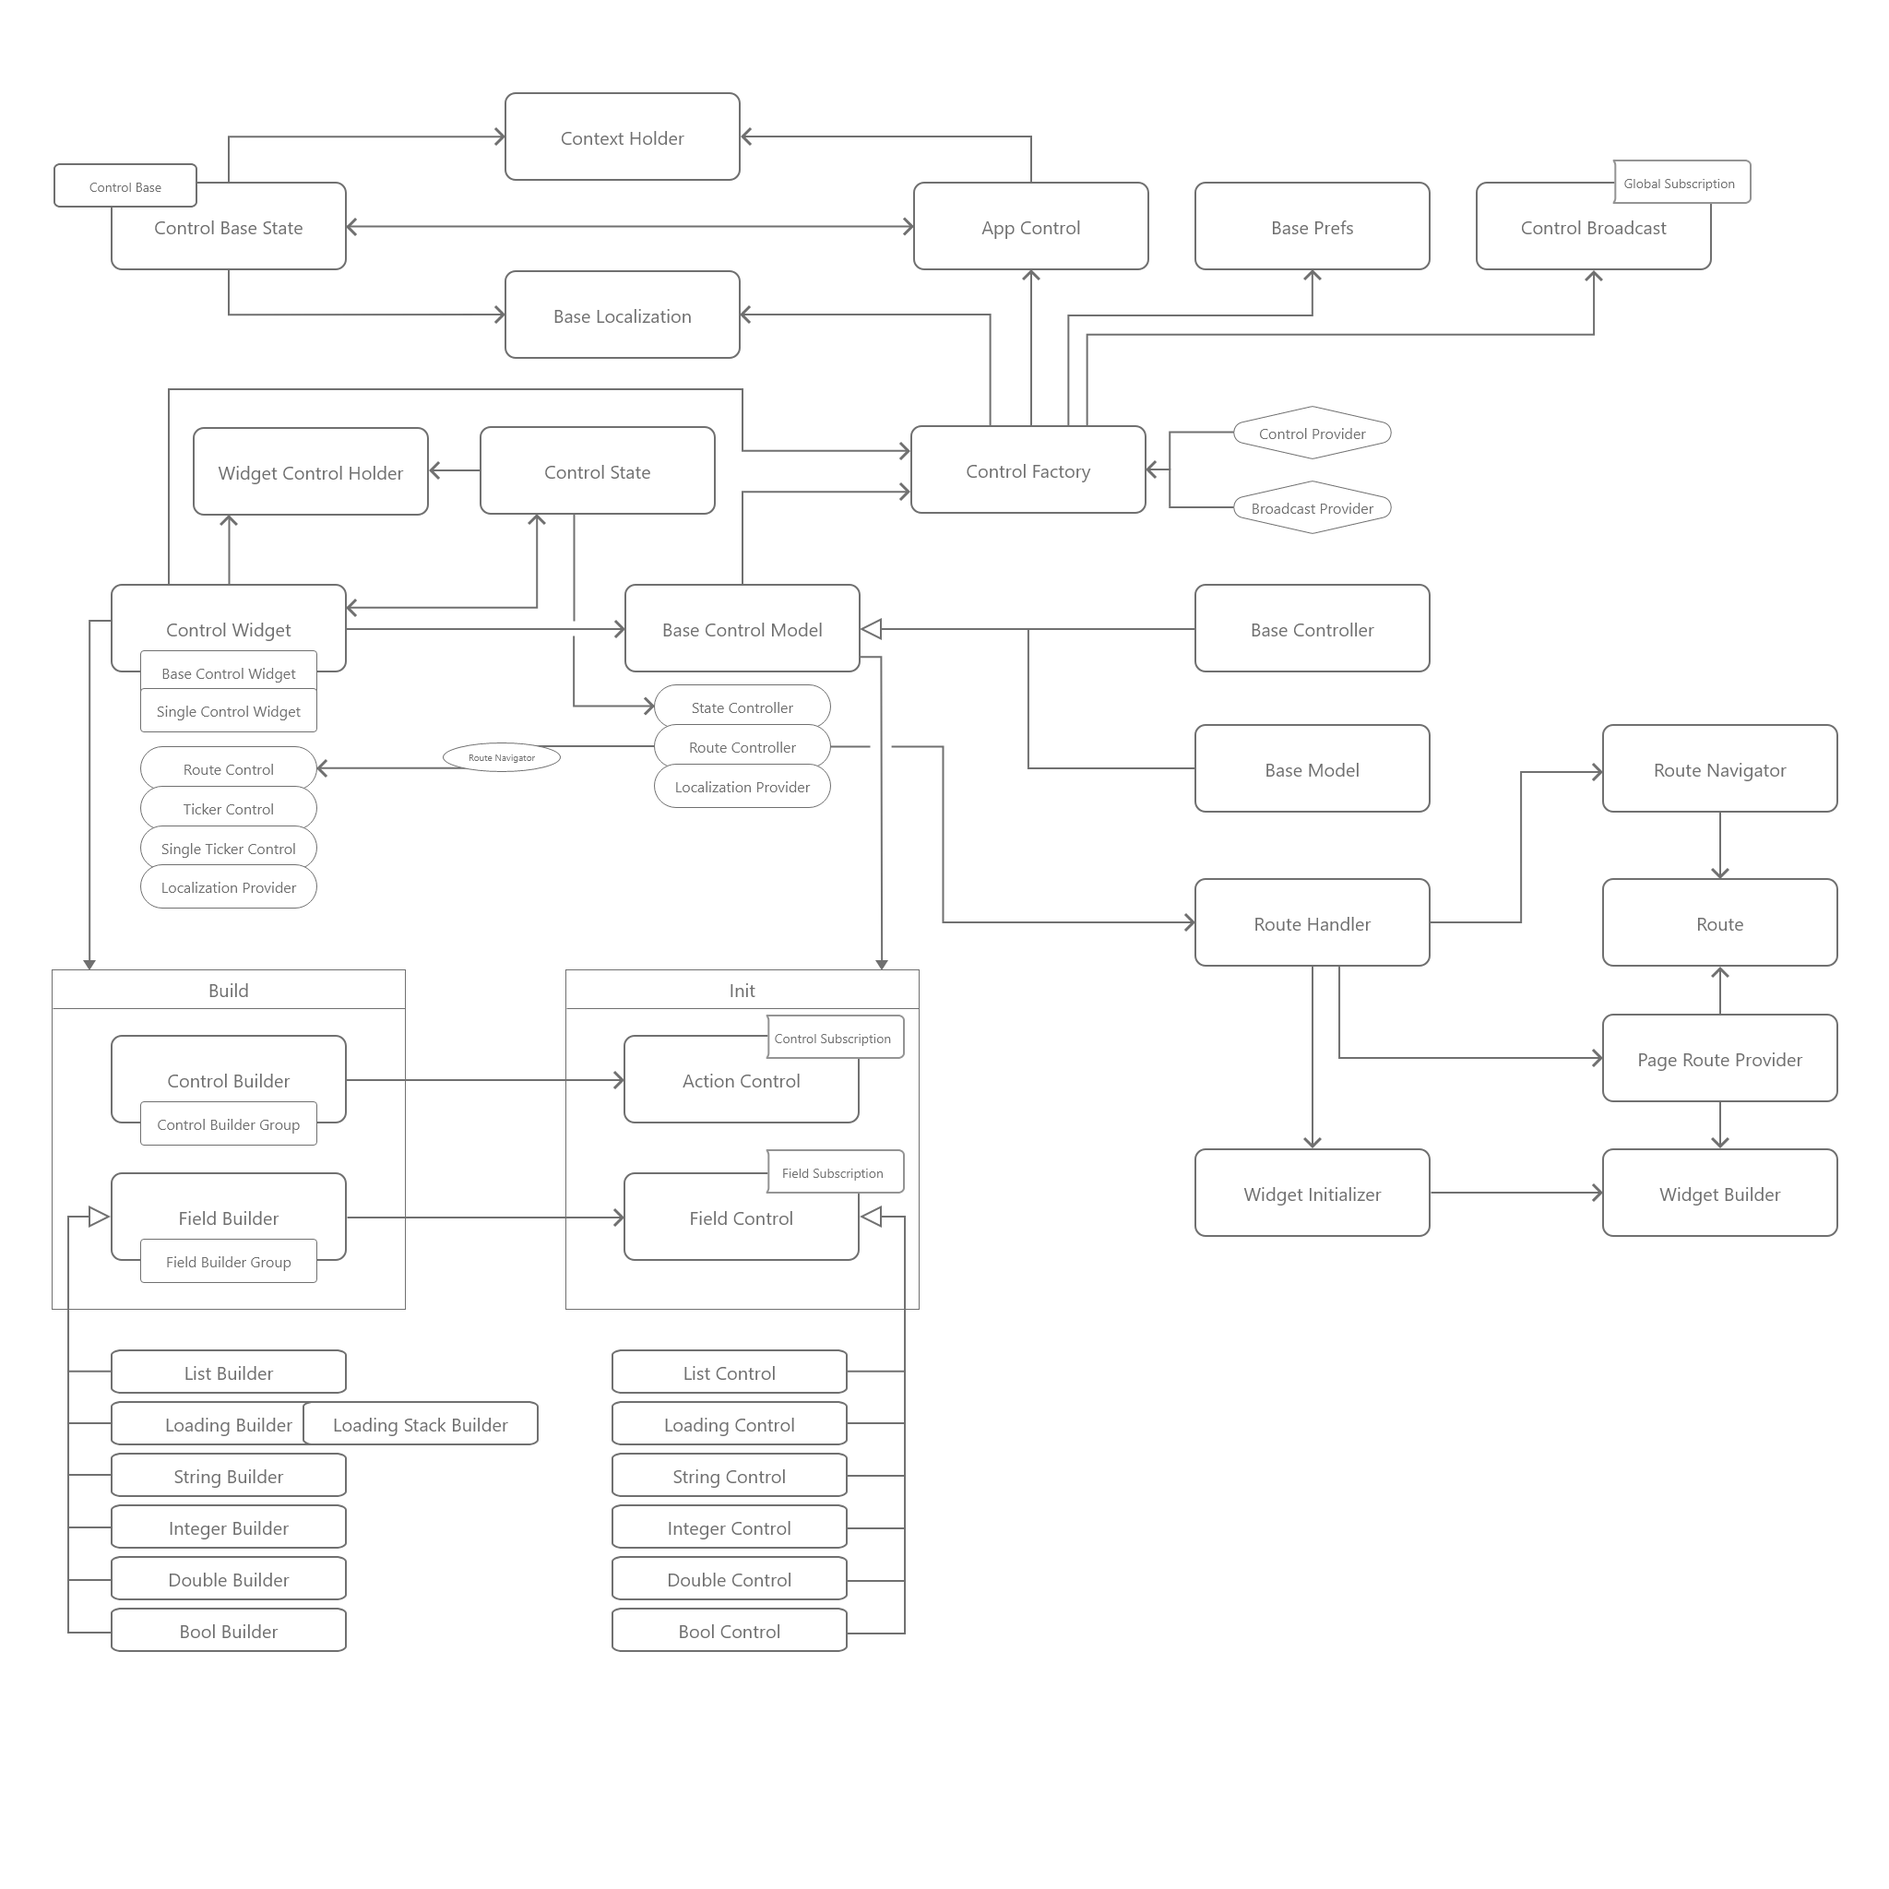
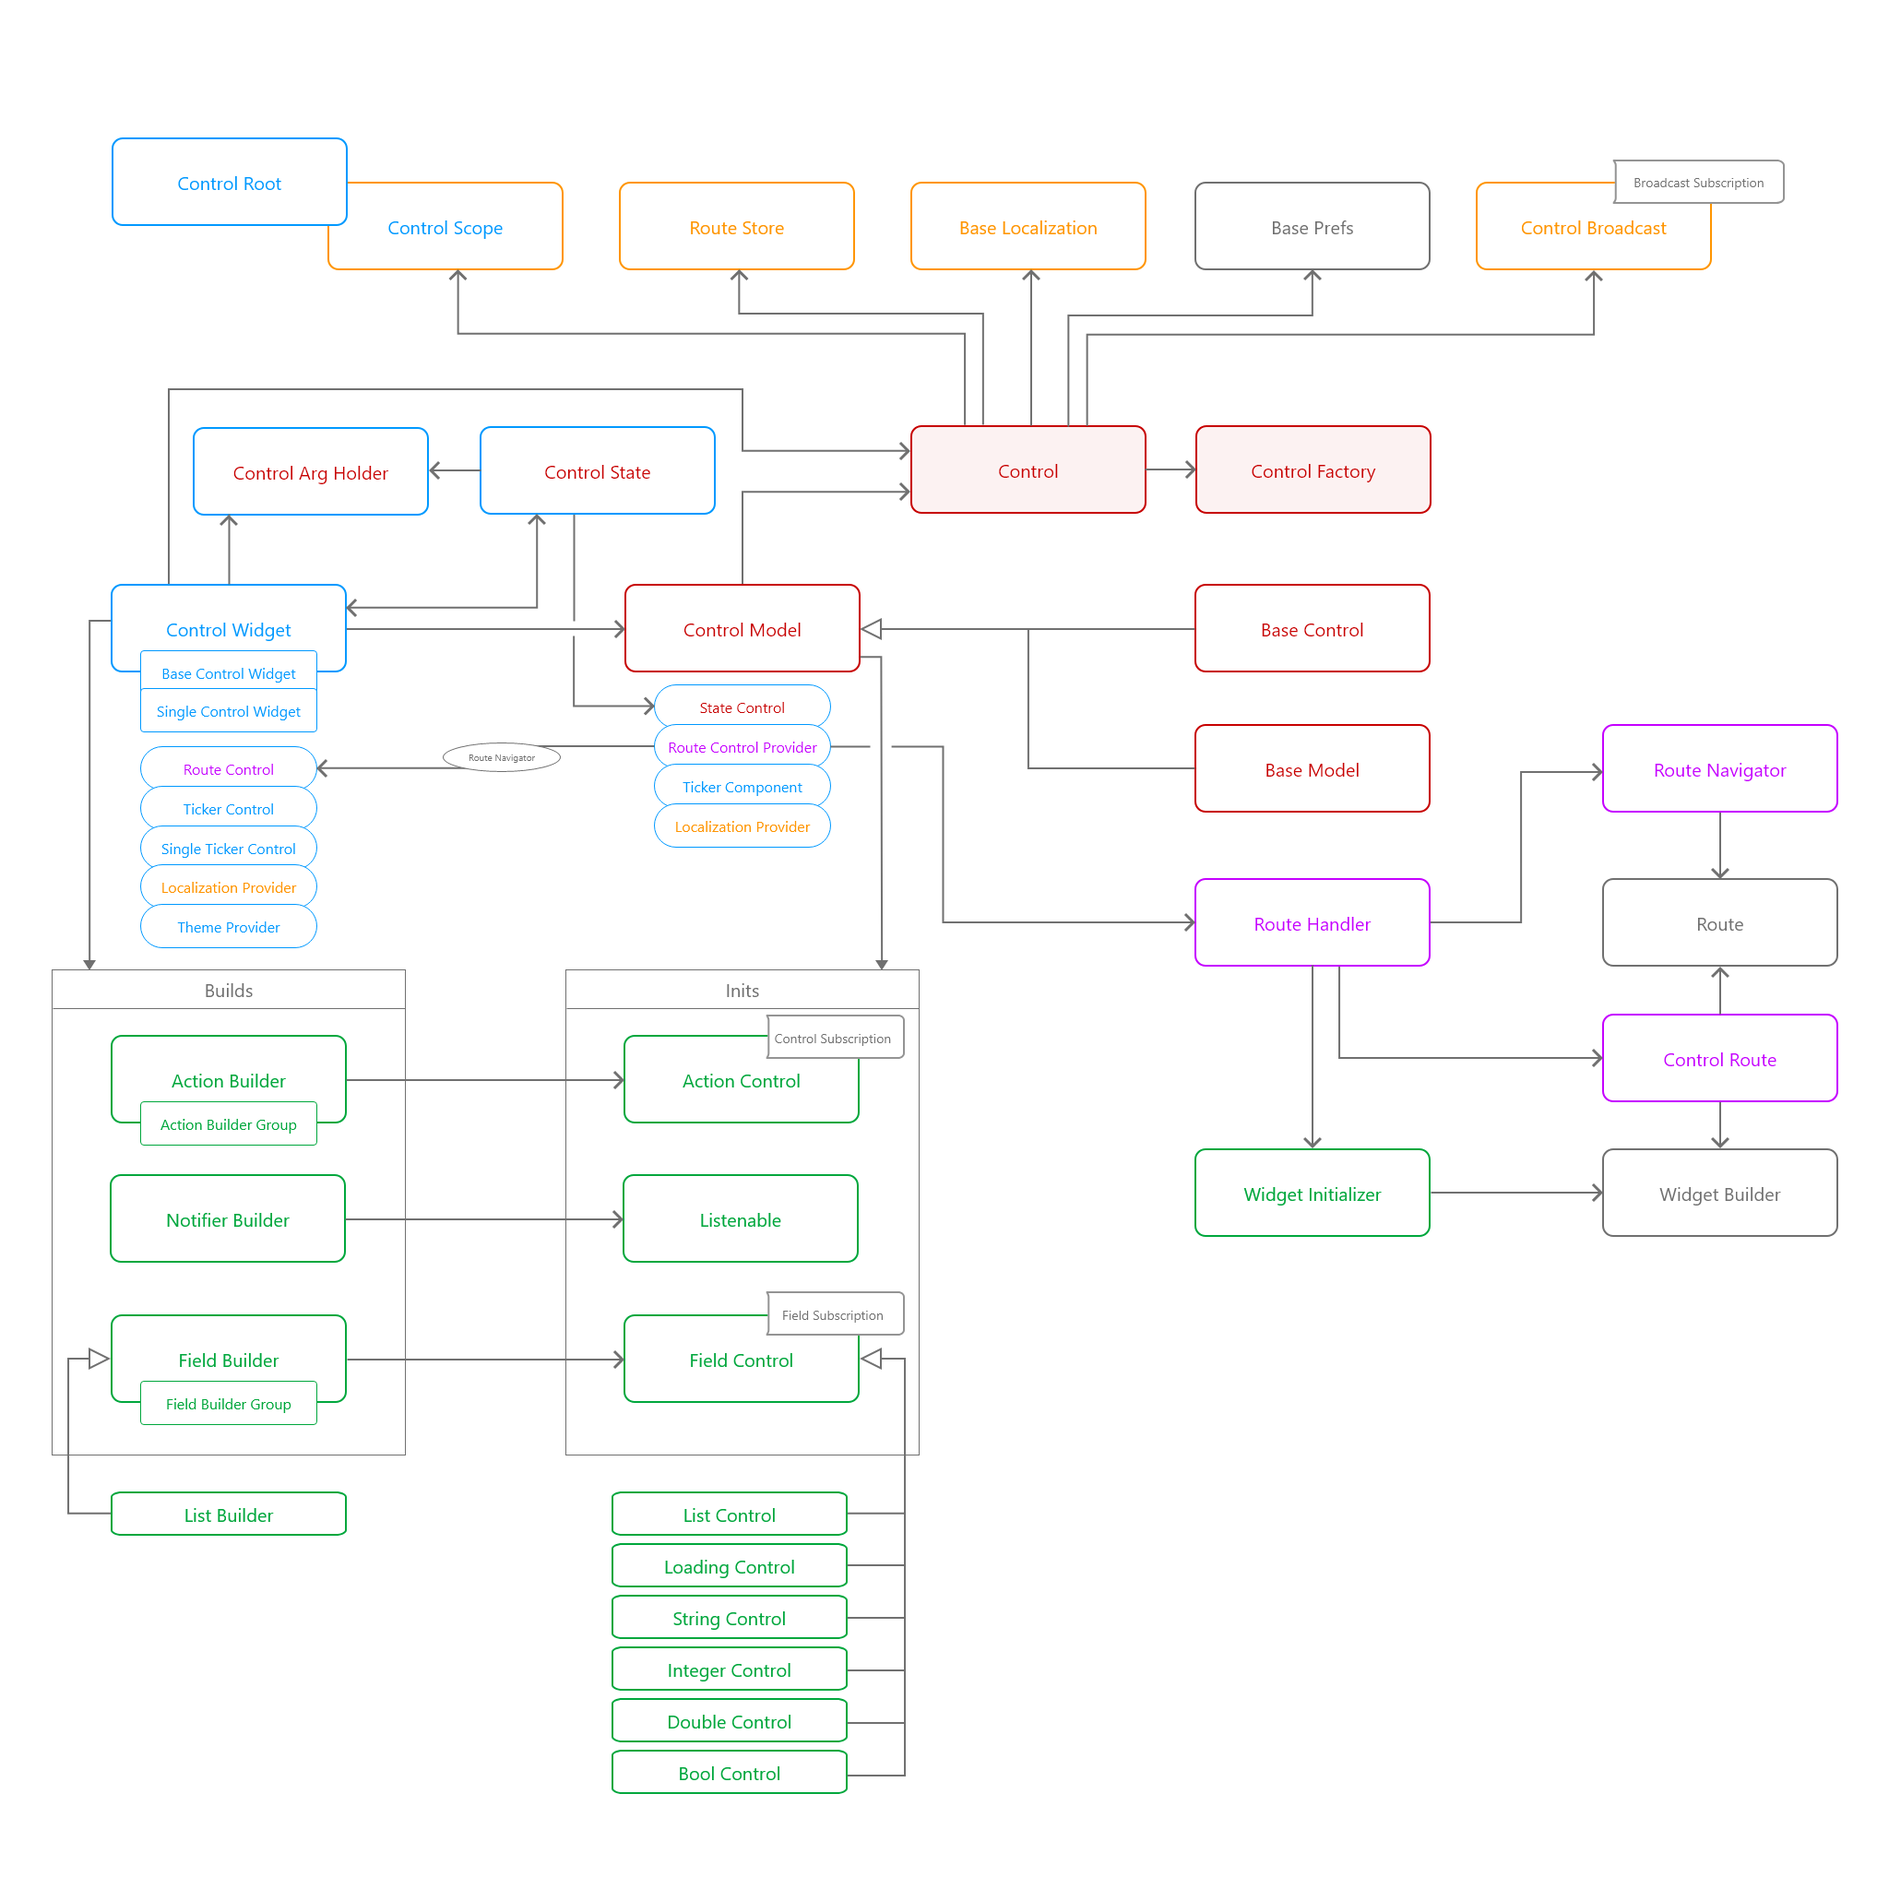
doc

diff --git a/README.md b/README.md
@@ -1,16 +1,15 @@
-
-**Release version (1.0) will be available soon, currently in pre-release branche (https://github.com/RomanBase/flutter_control/tree/pre-release)**
-
-Current beta version will have one last update (0.17.3).
-
----
-
 [![Structure](https://api.cirrus-ci.com/github/RomanBase/flutter_control.svg)](https://cirrus-ci.com/github/RomanBase/flutter_control)
 
 ---
 
 Flutter Control is complex library to maintain App and State management.\
 Helps to separate Business Logic from UI and with Communication, Localization, Routing and passing arguments/values/events around.
+
+ - **State Management** - UI / Logic separation
+ - **Dependency Injection**
+ - **Navigation and Routing**
+ - **Localization**
+ - **Event System**
 
 ---
 
@@ -20,8 +19,8 @@ Simplified structure of **core** classes in Flutter Control. Full diagram is at 
 ---
 
 **Flutter Control Core**
-
-- **[ControlBase]** Wraps App and initializes Control, Factory, Localization, Injector and Broadcaster. It's just shortcut to start with Flutter Control.
+- **[Control]** 
+- **[ControlRoot]** Wraps App and initializes [Control]. It's just shortcut to start with Flutter Control. Via [ControlScope] is possible to maintain [State] of this root widget and control whole app state (localization, theme, etc.).
 - **[ControlFactory]** Initializes and can store Controls, Models and other objects. Dependency Injection is provided during object initialization and also on demand.\
   Factory has own Storage. Objects in this storage are accessible via custom **key** or **Type**. Best practice is to use type as a key..\
   Comes with **[ControlProvider]** a class to easily access core functions from any part of App. Provider has two parts - Static and Widget.
@@ -30,29 +29,7 @@ Simplified structure of **core** classes in Flutter Control. Full diagram is at 
   Core objects of Flutter Control are stored in Factory Storage by default and are accessible by their **[Type]** or via Providers.
   
 ```dart
-    ControlBase(
-      locales: {
-        'en': AssetPath().localization('en'),
-      },
-      entries: {
-        CounterController: CounterController(),
-      },
-      initializers: {
-        Counter: (_) => CounterModel(),
-      },
-      injector: Injector.of({
-        Counter: (item, args) => item.controller = ControlProvider.get('counter'),
-      }),
-      loader: (context) => LoadingPage(),
-      root: (context) => CounterPage(),
-      app: (context, key, home) {
-        return MaterialApp(
-          key: key,
-          home: home,
-          title: 'Flutter Control Example',
-        );
-      },
-    );
+    //TODO: sample
 ```
   
 ---  
@@ -61,52 +38,28 @@ Simplified structure of **core** classes in Flutter Control. Full diagram is at 
   **[BaseControl]** is extended version of [ControlModel] with more functionality. Mainly used for pages or complex Widgets and also to separate robust Logic parts.\
   **[BaseModel]** is extended but lightweight version of [ControlModel]. Mainly used for Items in dynamic List or to separate/reuse Logic parts.\
   This Controls comes with few **[mixin]** classes to extend base functionality:
-   - **[RouteControl]** to provide navigation outside of Widget.
+   - **[RouteControlProvider]** to provide navigation outside of Widget.
    - **[StateControl]** to notify state of whole Widget.
+   - **[TickerComponent]** passes [Ticker] to Model.
 
 - **[ControlWidget]** is base abstract class (**StatefulWidget**) to maintain UI parts of App. Widget is created with default **[ControlState]** to correctly reflect lifecycle of Widget to Models and Controls. So there is no need to create custom [State].\
   If used correctly, this Widget will Init all containing Controls and pass arguments to these Controllers.\
   This Widget comes with few **[mixin]** classes:
-   - **[RoutingWidget]** to abstract navigation and easily pass arguments and init other Pages.
+   - **[RouteControl]** to abstract navigation and easily pass arguments and init other Pages.
    - **[TickerControl]** and **[SingleTickerControl]** to create [State] with [Ticker] and provide access to **[vsync]**.
    
   **[SingleControlWidget]** is used to work with one Controller. This controller can be passed through constructor/init **[args]** or grabbed from [ControlFactory].\
   **[BaseControlWidget]** is used when there is no need to construct Controllers. Controllers still can be passed through constructor or init **[args]**.
 
 ```dart
-class CounterModel extends BaseModel with StateController {
-  int count = 0;
-
-  void increase() {
-    count++;
-    notifyState();
-  }
-}
-
-class CounterPage extends SingleControlWidget<CounterModel> {
-
-  @override
-  Widget build(BuildContext context) {
-    return Scaffold(
-      body: Center(
-        child: Text(controller.count.toString()),
-      ),
-      floatingActionButton: FloatingActionButton(
-        onPressed: controller.increase,
-        child: Text('+'),
-      ),
-    );
-  }
-}
+  //TODO: sample
 ```
-
-After hitting **'+'** button State of CounterPage will be notified and whole Widget is re-build.
 
 ---
 
 - **[ActionControl]** is one type of Observable used in this Library. It's quite lightweight and is used to notify Widgets and to provide events about value changes.\
   Has three variants - **Single** (just one listener), **Broadcast** (multiple listeners) and **Broadcast Listener** (subscribes to Global Broadcaster).\
-  On the Widget side is **[ControlBuilder]** to dynamically build Widgets. It's also possible to use **[ControlBuilderGroup]** for multiple Observables.\
+  On the Widget side is **[ActionBuilder]** to dynamically build Widgets. It's also possible to use **[ActionBuilderGroup]** for multiple Observables.\
   Value is set directly, but can be used privately and with **[ActionControlSub]** interface provide subscription functionality to public.\
   Upon dismiss every **[ControlSubscription]** is closed.
 
@@ -118,37 +71,7 @@ After hitting **'+'** button State of CounterPage will be notified and whole Wid
   Upon dismiss every **[FieldSubscription]** is closed.
 
 ```dart
-class CounterController extends BaseController {
-  final count = IntegerControl();
-
-  void increase() => count.value++;
-
-  @override
-  void dispose() {
-    super.dispose();
-    count.dispose();
-  }
-}
-
-class CounterPage extends SingleControlWidget<CounterController> {
-
-  @override
-  Widget build(BuildContext context) {
-    return Scaffold(
-      body: Center(
-        child: FieldBuilder<int>(
-            controller: controller.count,
-            builder: (context, value) {
-              return Text(value.toString());
-            }),
-      ),
-      floatingActionButton: FloatingActionButton(
-        onPressed: controller.increase,
-        child: Text('+'),
-      ),
-    );
-  }
-}
+    //TODO: sample
 ```
 
 After hitting **'+'** button State of FieldBuilder will be notified and only Text Widget is re-build.
@@ -159,56 +82,32 @@ There is more ways how to pass and init Controllers in **[ControlWidget]** and l
 
 1. Constructor: we can pass Controllers as arguments with other **[args]**.
 ```dart
-  CounterPage({Key key, CounterController controller, int defaultValue: 10}): super(key: key, args:[controller, defaultValue]);
+  //TODO: sample
 ```
 
 2. Lazy load: Construct them manually or from Factory by overriding **[initControllers]**.
 ```dart
-
-  final controller = SuperController();
-
-  @override
-  List<BaseControlModel> initControllers() {
-    return [
-      controller,
-      CounterController(),
-      ControlProvider.get<CounterModel>(),
-    ];
-  }
+  //TODO: sample
 ```
 
 3. Pass them via **[Initializable]** interface. This method is same as Constructor **[args]**. Both methods can be combined with different arguments.\
   **[init]** is also called by **[RouteControl]**, when passing arguments from one page to another.
 ```dart
-  init(Map args);
+  //TODO: sample
 ```
 
 4. On demand during build statically or via Provider Widget, and new **[args]** can be pushed to objects:
 ```dart
-  @override
-  Widget build(BuildContext context) {
-    final controller = ControlProvider.get(CounterController, {'msg': 'static invoke'});
-    
-    return ControlProvider<CounterController>(
-      args: 10,
-      builder: (context, value) => Center(
-        child: Text((controller == value).toString()),
-      ),
-    );
-  }
+  //TODO: sample
 ```
 
 Arguments are then passed into Controllers as a **[Map]**. So you need to know **'key'** or **'Type'** to retrieve them. Static class **[Parse]** and their extensions can help..
   
 ```dart
-  @override
-  void onInit(Map args) {
-    int count = args.getArg<int>(defaultValue: -1);
-    String message = Parse.getArg<String>(args, key: 'msg', defaultValue: 'no message');
-  }
+  //TODO: sample
 ```
 
-**[BaseController]** by default prevents **'multi init'**. But this behaviour can be of course overridden.
+**[BaseControl]** by default prevents **'multi init'**. But this behaviour can be of course overridden.
 
 ---
 
@@ -216,39 +115,18 @@ Arguments are then passed into Controllers as a **[Map]**. So you need to know *
   
 - **[BaseLocalization]** Json based localization, that supports simple strings, plurals and dynamic structures.\
   Easy access via **[LocalizationProvider]** mixin. Localization object is stored in Factory, so is accessible without context and can be used even in Controllers, Entities, etc.\
-  Localization is initialized and loaded in **[ControlBase]** by default.\
+  Localization is initialized and loaded in **[Control]** by default.\
   And by default **[ControlWidget]** uses this localization.
   
 ```dart
-  class HelloControl extends BaseControlWidget {
-    @override
-    Widget build(BuildContext context) {
-      return Text(localize('hello_world'));
-    }
-  }
-  
-  class HelloText extends StatelessWidget with LocalizationProvider {
-    @override
-    Widget build(BuildContext context) {
-      return Text(localize('hello_world'));
-    }
-  }
+  //TODO: sample
 ```
   
 - **[ControlBroadcast]** Event stream across whole App. Broadcaster is part of **[ControlFactory]** and is stored there.\
   With **[BroadcastProvider]** is possible to subscribe to any stream and send data or events from one end of App to another, even to Widgets.
 
 ```dart
-  BroadcastProvider.subscribe<BasketItem>(BasketAdd, (item) => addToBasket(item));
-  
-  BroadcastBuilder<BasketItem>(
-    key: BasketAdd,
-    builder: (context, item) => Text(
-      'New item added to basket: ${item.name}',
-    ),
-  );
-  
-  BroadcatProvider.broadcast(BasketAdd, BasketItem(name: 'socks'));
+  //TODO: sample
 ```
 
 - **[ControlTheme]** wraps **[ThemeData]**, **[MediaQuery]** into **[Device]** class and **[AssetPath]**.\
@@ -258,18 +136,7 @@ Arguments are then passed into Controllers as a **[Map]**. So you need to know *
   Custom **[ControlTheme]** class builder can be used in [ControlBase] constructor to modify default params and provide more of them.
 
 ```dart
-  class HelloControl extends BaseControlWidget with ThemeProvider<MyTheme> {
-    @override
-    Widget build(BuildContext context) {
-      return Padding(
-        padding: EdgeInsets.all(theme.padding),
-        child: Text(
-          localize('hello_world'),
-          style: fontPrimary.title,
-        ),
-      );
-    }
-  }
+  //TODO: sample
 ```
 
 ---
@@ -278,50 +145,14 @@ Arguments are then passed into Controllers as a **[Map]**. So you need to know *
   Use **[RouteControl]** mixin to enable this navigation in Widget.
 
 ```dart
-  PageRouteProvider get counterPageRoute => PageRouteProvider.of(
-        identifier: 'counter',
-        builder: (context) => CounterPage(),
-      );
-```
-
-```dart
-  class HelloPage extends BaseControlWidget with RouteControl {
-  
-    @override
-    Widget build(BuildContext context) {
-      return FlatButton(
-        onPressed: () => counterPageRoute.navigator(this).openRoute(),
-        child: Text(
-          'open counter page',
-        ),
-      );
-    }
-  }
+  //TODO: sample
 ```
 
 Sometimes is handy to navigate from Controller or Model and for these scenarios exists **[RouteController]** mixin.\
 Widget still needs to be implemented with **[RouteControl]**.
 
 ```dart
-  class HelloController extends BaseController with RouteController {
-    
-    void navigateToNextPage() => openPage(counterPageRoute);
-  }
-  
-  class HelloPage extends SingleControlWidget<HelloController> with RouteControl {
-  
-    HelloController initController() => HelloController();
-  
-    @override
-    Widget build(BuildContext context) {
-      return FlatButton(
-        onPressed: controller.navigateToNextPage,
-        child: Text(
-          'open counter page',
-        ),
-      );
-    }
-  }
+  //TODO: sample
 ```
 
 ---
